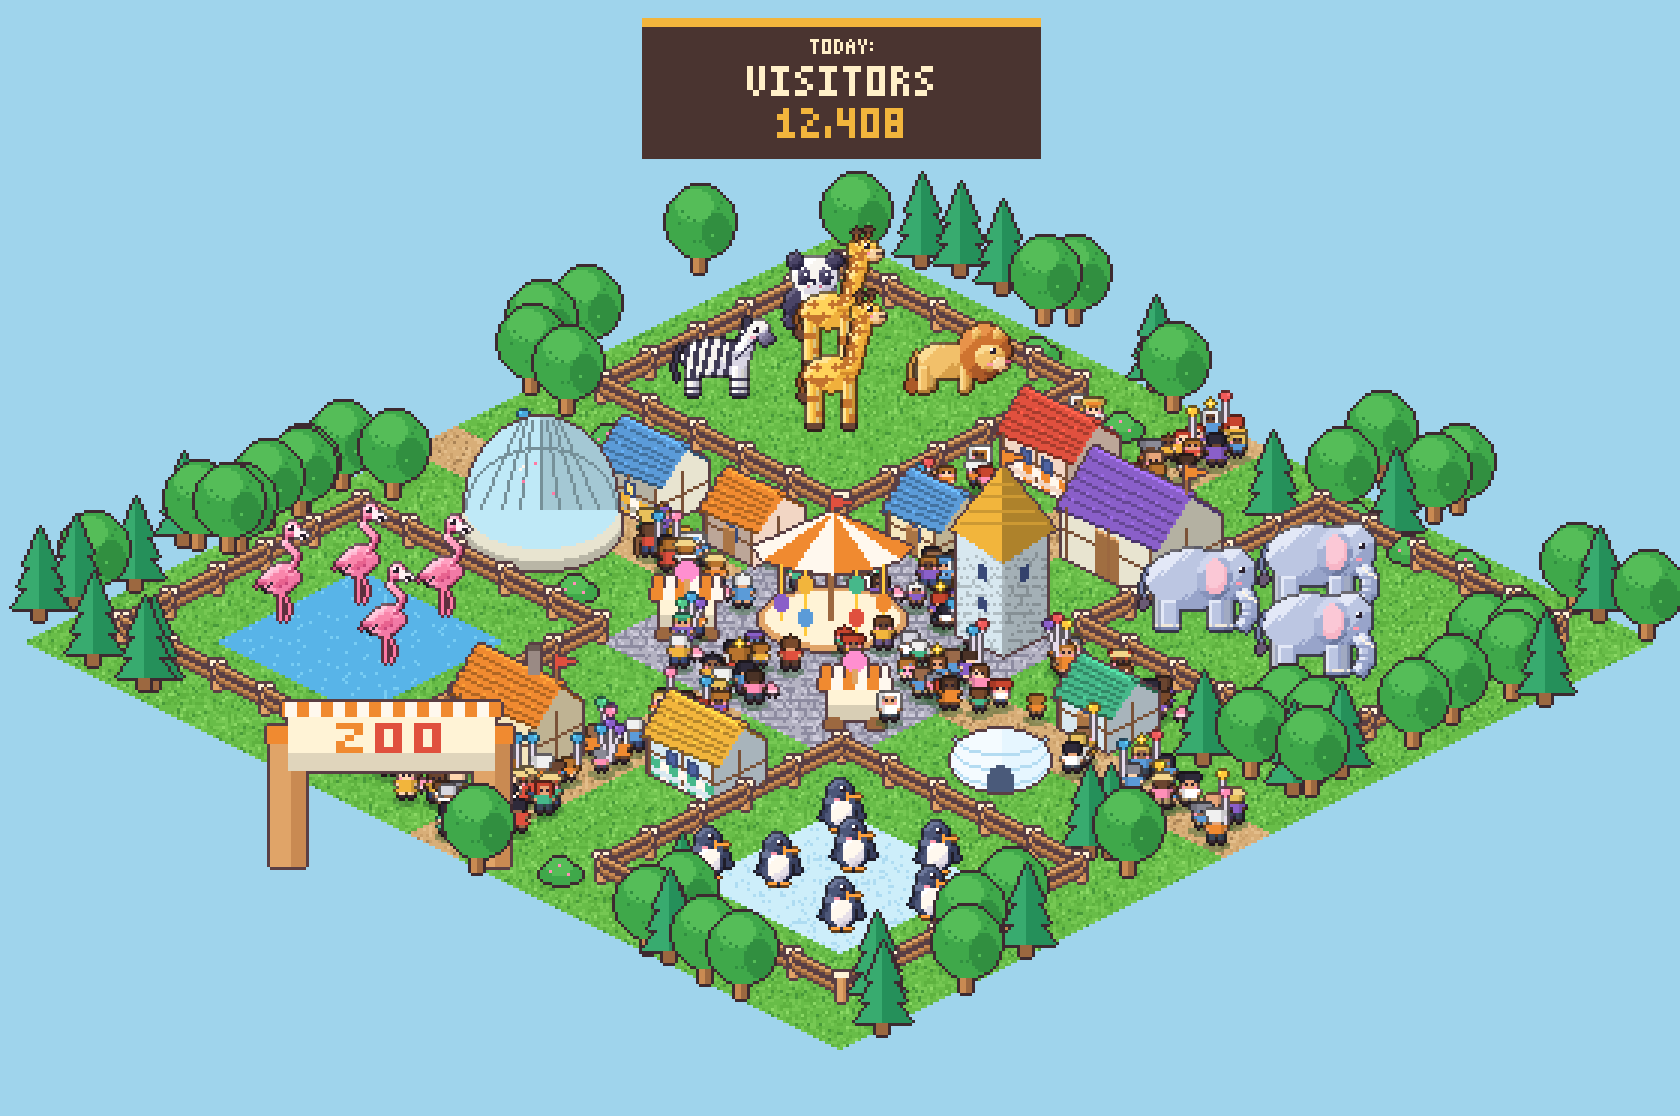
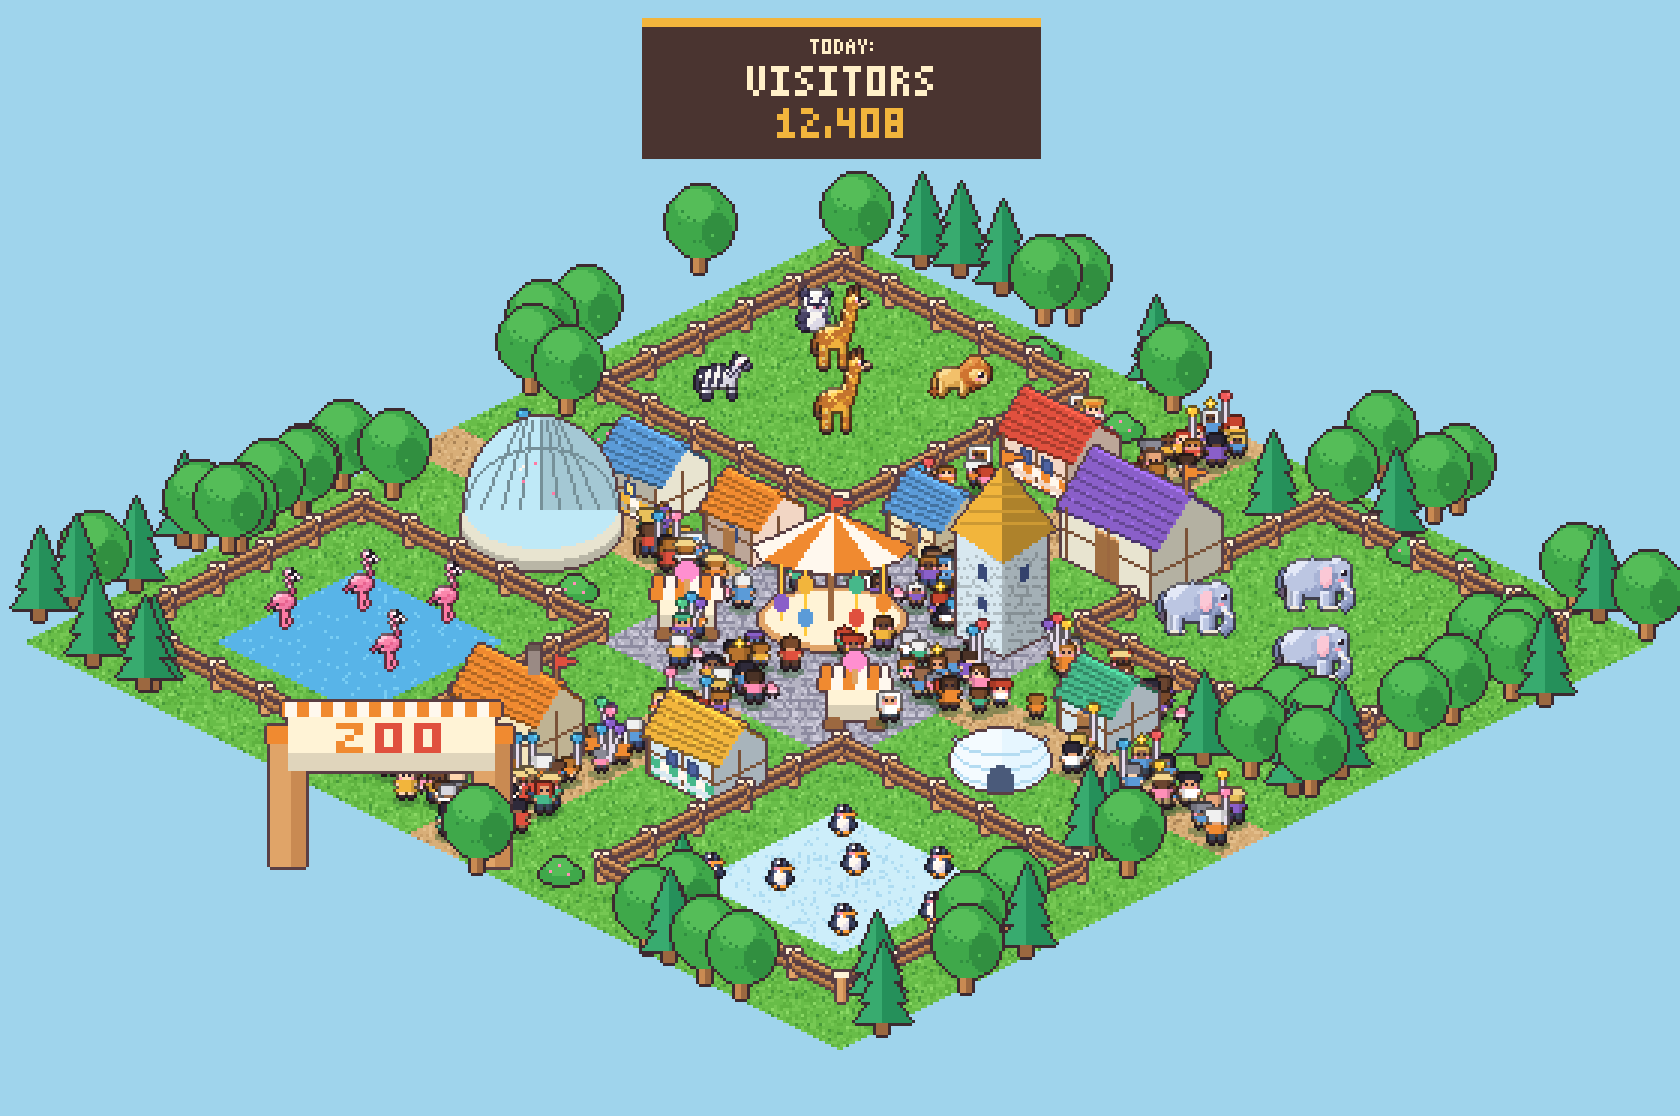
Oprava měřítka zvířat vůči návštěvníkům, ploché parcely bez kůlů

diff --git a/art/proto/mini_zoo.py b/art/proto/mini_zoo.py
@@ -233,16 +233,22 @@ def kasa(coins):
 
 # ---------------------------------------------------------------- chudé rekvizity
 def stake_plot():
-    """parcela k zastavění: dřevěné kolíky se provazem a cedulí „?“"""
-    im, g = new(70, 44)
+    """parcela k zastavění: plochá vyšlapaná zem s křídovým obrysem, nízké kolíky v rozích a pásky"""
+    im, g = new(70, 40)
     pts = [(35, 4), (66, 20), (35, 36), (4, 20)]
-    g.polygon(pts, fill=hx('#c49a68'))
-    g.polygon([(35, 8), (58, 20), (35, 32), (12, 20)], fill=hx('#d6ae7a'))
-    for (x, y) in pts:
-        g.rectangle([x - 1, y - 3, x, y + 1], fill=hx('#8a5a3a'))
+    g.polygon(pts, fill=hx('#cda374'))
+    g.polygon([(35, 8), (58, 20), (35, 32), (12, 20)], fill=hx('#d9b184'))
+    # čárkovaný obrys po zemi
     for a, b in zip(pts, pts[1:] + pts[:1]):
-        g.line([(a[0], a[1] - 2), (b[0], b[1] - 2)], fill=hx('#f0e6d0'))
-    return outlined(im, hx('#5a3a24')), (35, 36)
+        n = 10
+        for q in range(n):
+            if q % 2 == 0:
+                t0, t1 = q / n, (q + 1) / n
+                g.line([(a[0] + (b[0] - a[0]) * t0, a[1] + (b[1] - a[1]) * t0), (a[0] + (b[0] - a[0]) * t1, a[1] + (b[1] - a[1]) * t1)], fill=hx('#fff3d6'))
+    # nízké kolíky s barevnou páskou
+    for k, (x, y) in enumerate(pts):
+        g.rectangle([x - 1, y - 1, x, y], fill=[hx('#ef5b5b'), hx('#ffc93c')][k % 2])
+    return im, (35, 36)
 
 def question_sign():
     im, g = new(14, 24)
@@ -373,9 +379,9 @@ def make_mini(n_visitors=12, W=420, H=262):
     put_b(A['zebra'](), 2.3, 2.4, .1); put_b(A['zebra'](), 4.2, 4.1, .1)
     put_b(A['flamingo'](), 8.0, 2.6, .1); put_b(A['flamingo'](), 8.9, 3.4, .1)
     # parcely k zastavění (hlasování)
-    put(stake_plot(), 3.2, 6.8, .1); put(question_sign(), 2.2, 7.2, .45)
-    put(stake_plot(), 10.2, 10.0, .1); put(question_sign(), 9.2, 10.4, .45)
-    put(stake_plot(), 9.8, 6.8, .1); put(question_sign(), 8.8, 7.2, .45)
+    put(stake_plot(), 3.2, 6.8, .1); put(question_sign(), 2.2, 7.2, 1.5)
+    put(stake_plot(), 10.2, 10.0, .1); put(question_sign(), 9.2, 10.4, 1.5)
+    put(stake_plot(), 9.8, 6.8, .1); put(question_sign(), 8.8, 7.2, 1.5)
     put(stake_plot(), 8.7, 5.7, .1) if False else None
     # rekvizity
     put(bench(), 4.1, 5.9, .3); put(bench(), 6.9, 5.9, .3)

diff --git a/art/proto/animals.py b/art/proto/animals.py
@@ -197,7 +197,7 @@ def zebra():
     c.line([(29, 5), (23, 15)], 1.6, flat=k)                         # hříva
     c.blob(29, 3.5, 1.5, 1.8, r, flat=k); c.eye(32, 6)
     c.blush(31, 9, hx('#f6a8bf'))
-    for xx in range(7, 25, 4):
+    for xx in range(7, 25, 6):
         c.overlay(lambda d, s, xx=xx: d.polygon([(s(xx), s(10)), (s(xx + 1.2), s(10)), (s(xx - 1.8), s(24)), (s(xx - 3), s(24))], fill=255), k)
     for (a, b) in [(25, 14), (29, 10)]:
         c.overlay(lambda d, s, a=a, b=b: d.line([(s(a), s(b + 3)), (s(a + 4), s(b - 1))], fill=255, width=max(1, int(K))), k)
@@ -232,7 +232,7 @@ def tiger():
     c.px(34, 15, hx('#d4607a')); c.px(35, 15, hx('#d4607a'))
     c.blob(24, 7.5, 2.4, 2.4, r); c.blob(32, 7, 2.4, 2.4, r)
     c.eye(30, 11); c.blush(28, 16)
-    for xx in range(7, 23, 4):
+    for xx in range(7, 23, 6):
         c.overlay(lambda d, s, xx=xx: d.polygon([(s(xx), s(10)), (s(xx + 1.0), s(10)), (s(xx - .2), s(19)), (s(xx - 1.2), s(19))], fill=255), k)
     for yy in (22,):
         for lx in (4, 6, 20, 22):
@@ -350,7 +350,8 @@ def turtle():
     return c.done()
 
 ANIMALS_EXTRA = [('rhino', rhino), ('bear', bear), ('turtle', turtle)]
-ANIMAL_K = dict(giraffe=0.76, elephant=0.9, hippo=0.9, rhino=0.9, penguin=1.0, flamingo=0.95)
+# měřítko k návštěvníkovi (dospělý = 10 px výšky): zebra ~ výška po hřbet jako dospělý, slon ~2×, žirafa ~3×
+ANIMAL_K = dict(elephant=0.56, giraffe=0.46, zebra=0.5, lion=0.5, tiger=0.5, panda=0.5, hippo=0.5, rhino=0.52, bear=0.5, monkey=0.5, flamingo=0.55, penguin=0.55, turtle=0.65)
 
 def _wrap(fn, k):
     def f():
@@ -363,7 +364,7 @@ def _wrap(fn, k):
 
 ANIMALS = [('elephant', elephant), ('giraffe', giraffe), ('zebra', zebra), ('lion', lion), ('tiger', tiger),
            ('panda', panda), ('hippo', hippo), ('flamingo', flamingo), ('penguin', penguin), ('monkey', monkey)] + ANIMALS_EXTRA
-ANIMALS = [(n, _wrap(f, ANIMAL_K.get(n, 0.9))) for n, f in ANIMALS]
+ANIMALS = [(n, _wrap(f, ANIMAL_K.get(n, 0.5))) for n, f in ANIMALS]
 
 def sheet(scale=5):
     items = [(n, f()) for n, f in ANIMALS]

diff --git a/docs/ART.md b/docs/ART.md
@@ -54,6 +54,13 @@ Postavil jsem nový renderer: siluety z polygonů, objem z mapy výšky (vzdále
 **Slabé místo:** anatomie a siluety. Vzor má ručně vymodelované tvary (ohnuté nohy, výrazné hlavy), moje polygony jsou tužší, hlavy jednodušší, lev má oddělený ocas.
 **Závěr:** pro finální zvířata v tomhle stylu je lepší PixelLab se stylovým obrázkem (nebo ruční dokreslení), můj renderer se hodí na rychlé návrhy, stíny a sjednocení barev.
 
+## Měřítko (oprava 17. 11. 2026)
+
+První verze měla zvířata obří vůči návštěvníkům. Pravidlo teď: **dospělý návštěvník = 10 px výšky** (14 s obrysem a stínem).
+Zvíře v kohoutku je výškou po hřbet zhruba jako dospělý, slon ~2×, žirafa ~2,5×, tučňák a želva menší. Měřítko je v `animals.py` (`ANIMAL_K`: slon 0.56, žirafa 0.46, zebra/lev/panda/hroch 0.5 …).
+Kontrola: `styles/scale_check_visitors_vs_animals.png` (dva návštěvníci a všech 13 zvířat vedle sebe). Při přidání nového zvířete ho vždy porovnat s tímhle obrázkem.
+Parcely k zastavění jsou ploché (vyšlapaná zem, čárkovaný obrys, pásky v rozích) a cedule „?“ je před nimi, bez kůlů.
+
 Plán:
 - **Kulisy, zvířata, budovy, terén:** vlastní generace (kód) nebo PixelLab (`create_object_pro_flash`, izometrie) – podle toho, co vypadá lépe; vždy s paletou výše.
 - **Návštěvníci (stovky variant, chůze 4–8 směrů):** PixelLab `create_character` + animace (postup z fronty: `tools/pixellab.py`, ledger proti duplikátům, `sprite_qa.py`). Generace jsou omezené, proto jednou správně.
